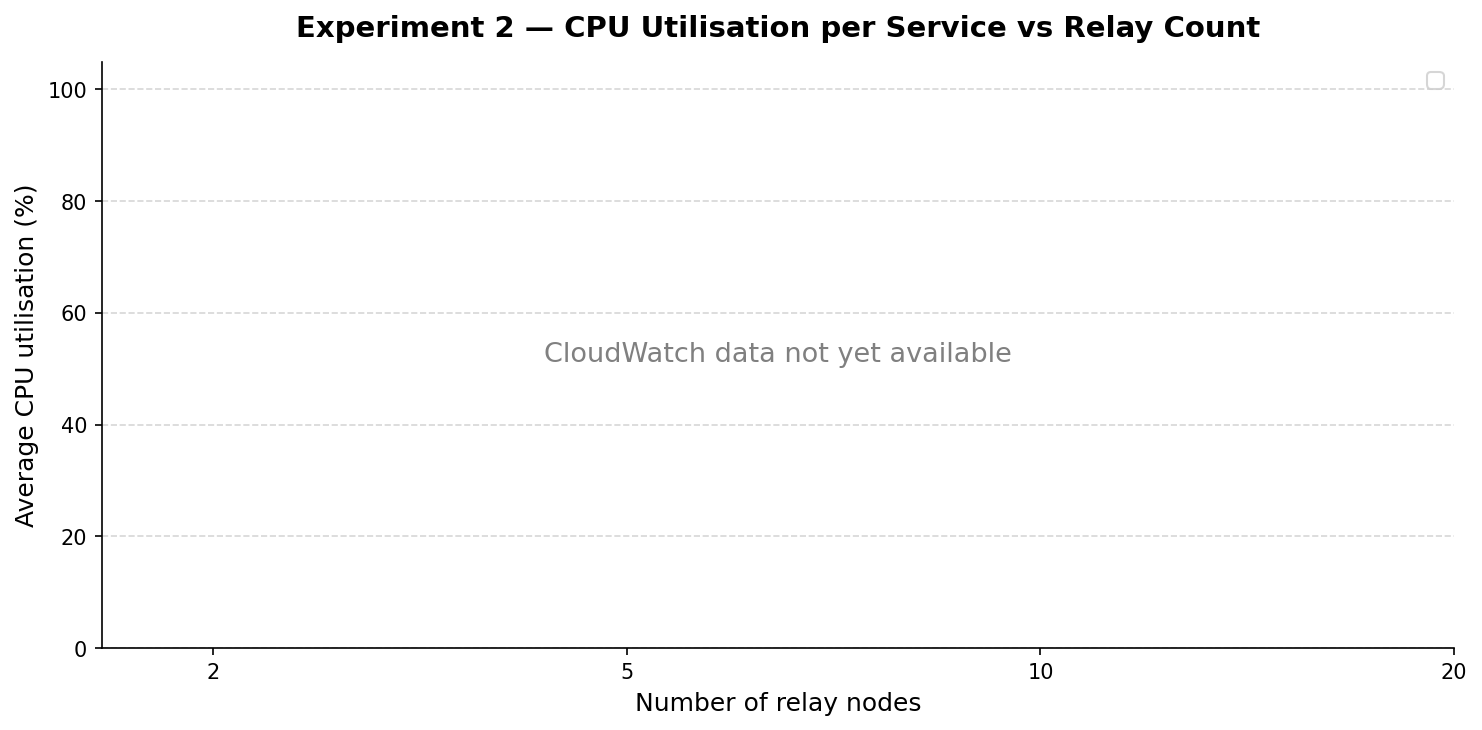
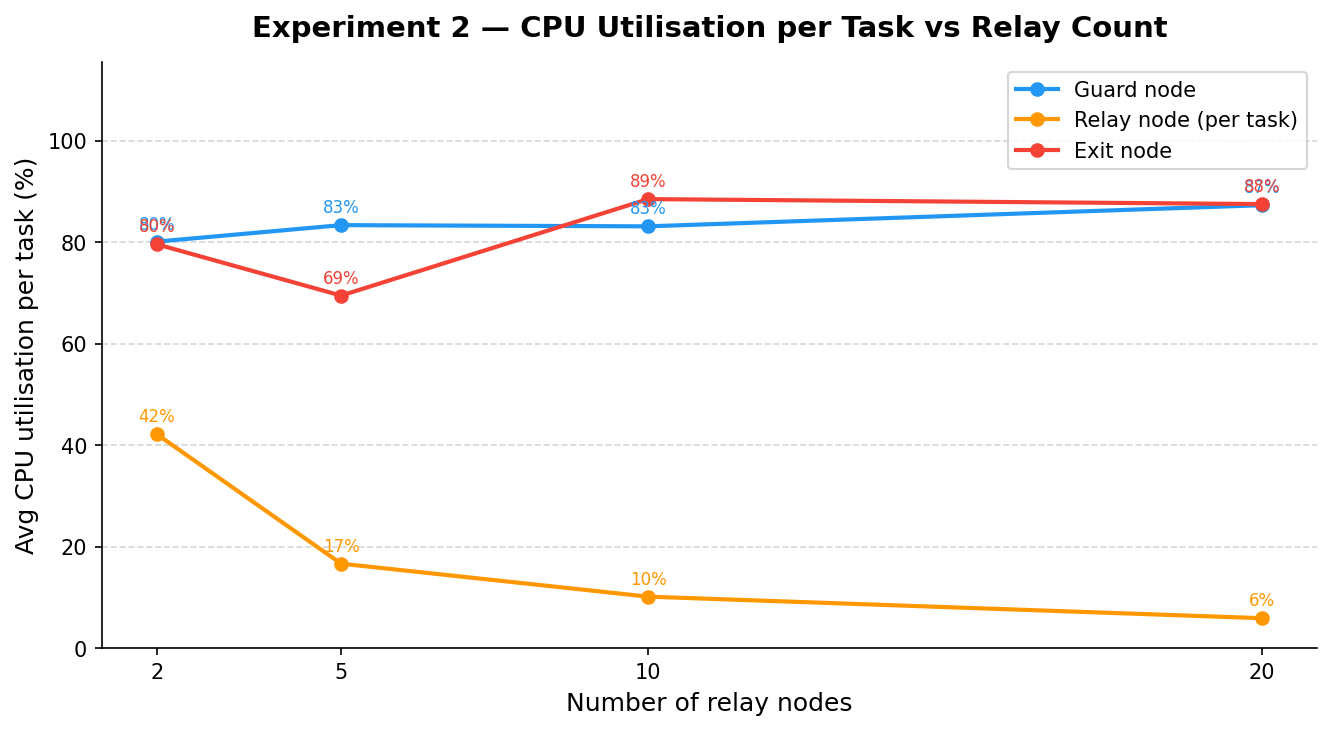
feat(exp2): regenerate CPU chart with real Container Insights data
Re-ran 3-min load tests at relay counts 2/5/10/20 with Container Insights
enabled to capture live CpuUtilized/CpuReserved from ECS/ContainerInsights
namespace.  Chart now shows real per-task CPU utilisation vs relay count:
guard & exit nodes hold steady at ~80-88% (single-instance bottlenecks)
while relay per-task CPU drops 42% → 6% as the fleet scales 2→20,
confirming effective horizontal load distribution.

Adds generate_exp2_cpu_chart.py to pull CI metrics and regenerate the PNG.

diff --git a/experiments/scripts/generate_exp2_cpu_chart.py b/experiments/scripts/generate_exp2_cpu_chart.py
@@ -1,0 +1,172 @@
+"""
+generate_exp2_cpu_chart.py — Pull Container Insights CPU data and regenerate
+the exp2_cpu_by_service_vs_relays.png chart with real data.
+
+Queries ECS/ContainerInsights namespace for CpuUtilized and CpuReserved
+for guard-node, relay-node, and exit-node during the CPU-capture test windows.
+
+Usage:
+  python generate_exp2_cpu_chart.py \\
+    --timestamps /tmp/cpu_timestamps.csv \\
+    --out-dir docs/charts \\
+    --region us-west-2
+
+Timestamps CSV format (no header):
+  relay_count,start_utc,end_utc
+  e.g.: 2,2026-04-10T23:20:42Z,2026-04-10T23:24:03Z
+"""
+
+import argparse
+import logging
+import os
+from datetime import datetime, timezone, timedelta
+from pathlib import Path
+
+import boto3
+import matplotlib
+matplotlib.use("Agg")
+import matplotlib.pyplot as plt
+
+logging.basicConfig(level=logging.INFO, format="%(asctime)s [%(levelname)s] %(message)s")
+log = logging.getLogger(__name__)
+
+SERVICES = ["guard-node", "relay-node", "exit-node"]
+
+SERVICE_LABELS = {
+    "guard-node": "Guard node",
+    "relay-node": "Relay node (per task)",
+    "exit-node":  "Exit node",
+}
+
+COLORS = {
+    "guard-node": "#2196F3",
+    "relay-node": "#FF9800",
+    "exit-node":  "#F44336",
+}
+
+
+def parse_utc(ts: str) -> datetime:
+    ts = ts.rstrip("Z")
+    dt = datetime.fromisoformat(ts)
+    return dt.replace(tzinfo=timezone.utc)
+
+
+def fetch_cpu_pct(cw, service: str, cluster: str,
+                  start: datetime, end: datetime) -> float | None:
+    """
+    Fetch average CPU% = mean(CpuUtilized) / mean(CpuReserved) × 100
+    for a service during [start, end]. Returns None if no data.
+    """
+    dims = [
+        {"Name": "ServiceName", "Value": service},
+        {"Name": "ClusterName", "Value": cluster},
+    ]
+
+    def _avg(metric):
+        resp = cw.get_metric_statistics(
+            Namespace="ECS/ContainerInsights",
+            MetricName=metric,
+            Dimensions=dims,
+            StartTime=start,
+            EndTime=end,
+            Period=60,
+            Statistics=["Average"],
+        )
+        pts = [p["Average"] for p in resp["Datapoints"]]
+        return sum(pts) / len(pts) if pts else None
+
+    utilized = _avg("CpuUtilized")
+    reserved = _avg("CpuReserved")
+    log.info("  %s: CpuUtilized=%.1f  CpuReserved=%.1f",
+             service,
+             utilized if utilized is not None else float("nan"),
+             reserved if reserved is not None else float("nan"))
+
+    if utilized is None or reserved is None or reserved == 0:
+        return None
+    return round((utilized / reserved) * 100, 2)
+
+
+def load_timestamps(path: str) -> list[dict]:
+    windows = []
+    with open(path) as f:
+        for line in f:
+            line = line.strip()
+            if not line:
+                continue
+            parts = line.split(",")
+            relay_count = int(parts[0])
+            start = parse_utc(parts[1])
+            end   = parse_utc(parts[2])
+            windows.append({"relay_count": relay_count, "start": start, "end": end})
+    windows.sort(key=lambda w: w["relay_count"])
+    return windows
+
+
+def main(argv=None):
+    p = argparse.ArgumentParser(description="Generate exp2 CPU chart from Container Insights.")
+    p.add_argument("--timestamps", default="/tmp/cpu_timestamps.csv",
+                   help="CSV with relay_count,start,end rows")
+    p.add_argument("--out-dir", dest="out_dir", default="docs/charts")
+    p.add_argument("--cluster", default="hopvault-cluster")
+    p.add_argument("--region", default=os.getenv("AWS_DEFAULT_REGION", "us-west-2"))
+    args = p.parse_args(argv)
+
+    windows = load_timestamps(args.timestamps)
+    relay_counts = [w["relay_count"] for w in windows]
+    log.info("Windows: %s", [(w["relay_count"], str(w["start"]), str(w["end"])) for w in windows])
+
+    cw = boto3.client("cloudwatch", region_name=args.region)
+
+    # {service: [cpu_pct_at_relay2, cpu_pct_at_relay5, ...]}
+    data: dict[str, list] = {svc: [] for svc in SERVICES}
+
+    for w in windows:
+        log.info("=== relay_count=%d ===", w["relay_count"])
+        # Skip the first minute (ramp-up) and last minute (wind-down)
+        t_start = w["start"] + timedelta(minutes=1)
+        t_end   = w["end"]   - timedelta(minutes=0, seconds=30)
+        for svc in SERVICES:
+            pct = fetch_cpu_pct(cw, svc, args.cluster, t_start, t_end)
+            data[svc].append(pct if pct is not None else 0.0)
+            log.info("  %s CPU%% = %s", svc, pct)
+
+    # Plot
+    fig, ax = plt.subplots(figsize=(9, 5))
+
+    for svc in SERVICES:
+        vals = data[svc]
+        ax.plot(
+            relay_counts, vals,
+            marker="o", linewidth=2,
+            color=COLORS[svc],
+            label=SERVICE_LABELS[svc],
+        )
+        # Annotate each point
+        for x, y in zip(relay_counts, vals):
+            ax.annotate(f"{y:.0f}%", (x, y),
+                        textcoords="offset points", xytext=(0, 6),
+                        ha="center", fontsize=8, color=COLORS[svc])
+
+    ax.set_title("Experiment 2 — CPU Utilisation per Task vs Relay Count",
+                 fontsize=14, fontweight="bold", pad=12)
+    ax.set_xlabel("Number of relay nodes", fontsize=12)
+    ax.set_ylabel("Avg CPU utilisation per task (%)", fontsize=12)
+    ax.set_xticks(relay_counts)
+    ax.set_ylim(0, max(max(vals) for vals in data.values()) * 1.25 + 5)
+    ax.grid(axis="y", linestyle="--", alpha=0.5)
+    ax.spines["top"].set_visible(False)
+    ax.spines["right"].set_visible(False)
+    ax.legend(fontsize=10, framealpha=0.8)
+    fig.tight_layout()
+
+    out_dir = Path(args.out_dir)
+    out_dir.mkdir(parents=True, exist_ok=True)
+    out_path = out_dir / "exp2_cpu_by_service_vs_relays.png"
+    fig.savefig(out_path, dpi=150, bbox_inches="tight")
+    plt.close(fig)
+    log.info("Saved %s", out_path)
+
+
+if __name__ == "__main__":
+    main()
